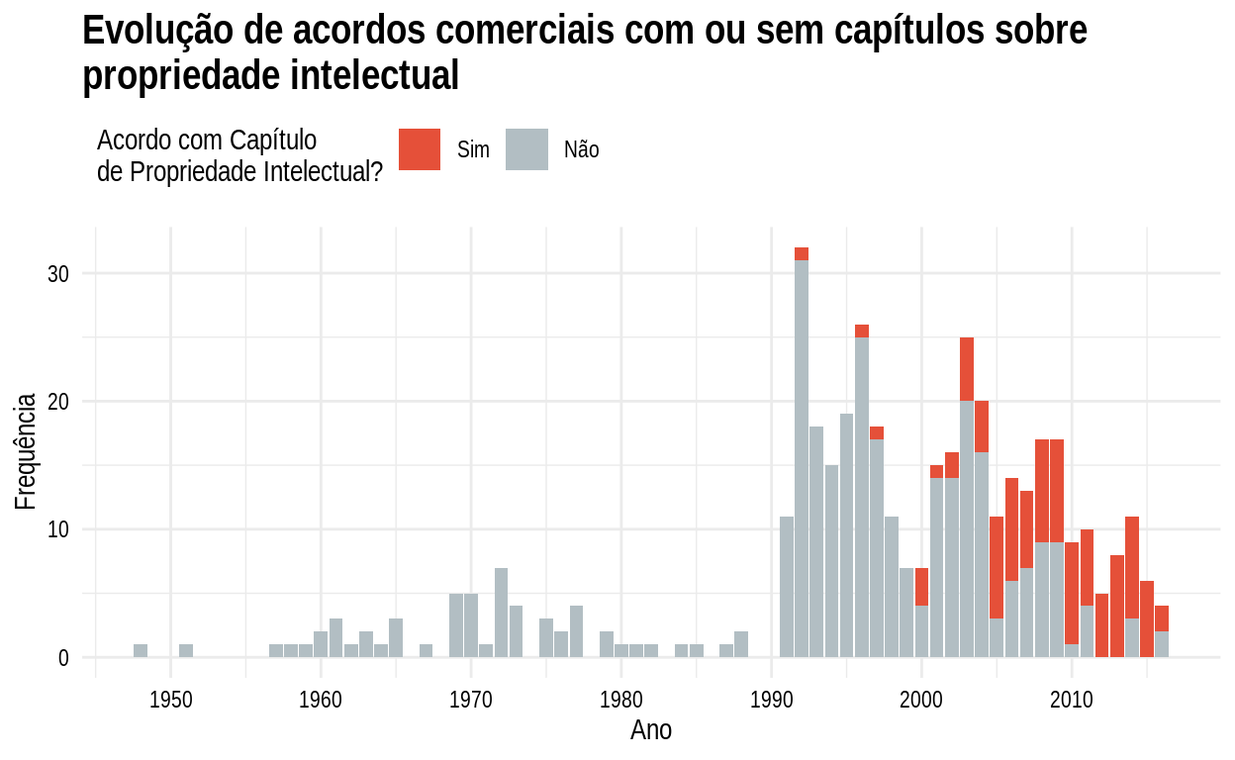
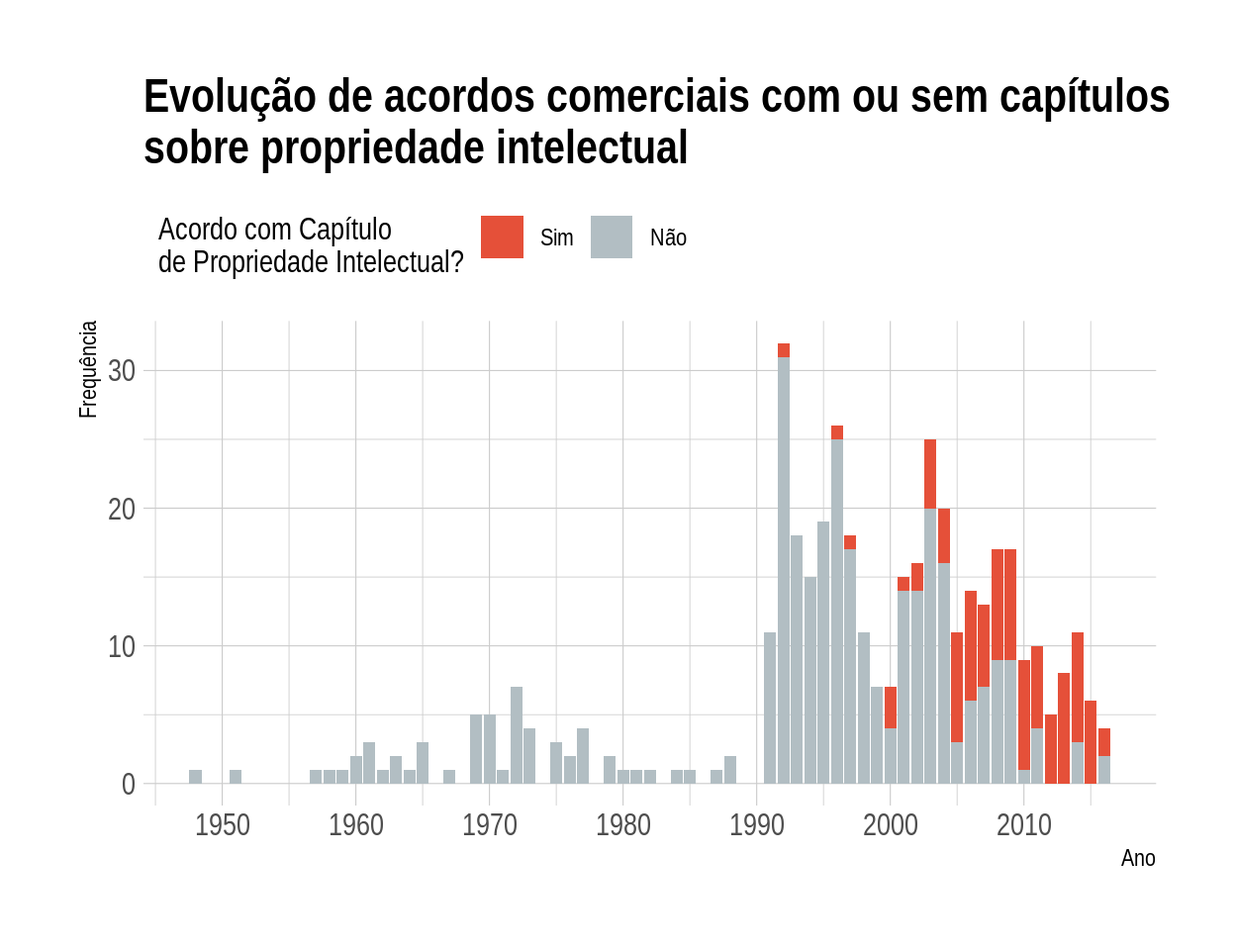
atualizacao post tidytext

diff --git a/_posts/2019-09-19-modelagem-de-tpicos-com-o-r-analisando-os-textos-de-acordos-comerciais/modelagem-de-tpicos-com-o-r-analisando-os-textos-de-acordos-comerciais.html b/_posts/2019-09-19-modelagem-de-tpicos-com-o-r-analisando-os-textos-de-acordos-comerciais/modelagem-de-tpicos-com-o-r-analisando-os-textos-de-acordos-comerciais.html
@@ -19,7 +19,7 @@
  <!--/radix_placeholder_import_source-->
 
   <!--radix_placeholder_meta_tags-->
-  <title>Modelagem de Tópicos com o R: Analisando os Textos de Acordos Comerciais</title>
+  <title>Tidytext e Modelagem de Tópicos com o R: Analisando os Textos de Acordos Comerciais</title>
   
   <meta property="description" itemprop="description" content="Neste post, vamos fazer uma análise de tópicos utilizando os pacotes tidytext e topicmodels. Essa análise consiste em extrair um conjunto de temas (tópicos) de um conjunto de textos. Para isso, utilizamos uma base de textos de acordos comerciais. Veremos que o método utilizado é capaz de identificar uma séria de tópicos relevantes."/>
   
@@ -30,26 +30,26 @@
   <meta name="article:author" content="Paulo Felipe Alencar"/>
   
   <!--  https://developers.facebook.com/docs/sharing/webmasters#markup -->
-  <meta property="og:title" content="Modelagem de Tópicos com o R: Analisando os Textos de Acordos Comerciais"/>
+  <meta property="og:title" content="Tidytext e Modelagem de Tópicos com o R: Analisando os Textos de Acordos Comerciais"/>
   <meta property="og:type" content="article"/>
   <meta property="og:description" content="Neste post, vamos fazer uma análise de tópicos utilizando os pacotes tidytext e topicmodels. Essa análise consiste em extrair um conjunto de temas (tópicos) de um conjunto de textos. Para isso, utilizamos uma base de textos de acordos comerciais. Veremos que o método utilizado é capaz de identificar uma séria de tópicos relevantes."/>
   <meta property="og:locale" content="en_US"/>
   
   <!--  https://dev.twitter.com/cards/types/summary -->
   <meta property="twitter:card" content="summary"/>
-  <meta property="twitter:title" content="Modelagem de Tópicos com o R: Analisando os Textos de Acordos Comerciais"/>
+  <meta property="twitter:title" content="Tidytext e Modelagem de Tópicos com o R: Analisando os Textos de Acordos Comerciais"/>
   <meta property="twitter:description" content="Neste post, vamos fazer uma análise de tópicos utilizando os pacotes tidytext e topicmodels. Essa análise consiste em extrair um conjunto de temas (tópicos) de um conjunto de textos. Para isso, utilizamos uma base de textos de acordos comerciais. Veremos que o método utilizado é capaz de identificar uma séria de tópicos relevantes."/>
   
   <!--/radix_placeholder_meta_tags-->
   <!--radix_placeholder_rmarkdown_metadata-->
   
   <script type="text/json" id="radix-rmarkdown-metadata">
-  {"type":"list","attributes":{"names":{"type":"character","attributes":{},"value":["title","description","author","date","output","draft"]}},"value":[{"type":"character","attributes":{},"value":["Modelagem de Tópicos com o R: Analisando os Textos de Acordos Comerciais"]},{"type":"character","attributes":{},"value":["Neste post, vamos fazer uma análise de tópicos utilizando os pacotes tidytext e topicmodels. Essa análise consiste em extrair um conjunto de temas (tópicos) de um conjunto de textos. Para isso, utilizamos uma base de textos de acordos comerciais. Veremos que o método utilizado é capaz de identificar uma séria de tópicos relevantes.  \n"]},{"type":"list","attributes":{},"value":[{"type":"list","attributes":{"names":{"type":"character","attributes":{},"value":["name"]}},"value":[{"type":"character","attributes":{},"value":["Paulo Felipe Alencar"]}]}]},{"type":"character","attributes":{},"value":["09-19-2019"]},{"type":"list","attributes":{"names":{"type":"character","attributes":{},"value":["distill::distill_article"]}},"value":[{"type":"list","attributes":{"names":{"type":"character","attributes":{},"value":["self_contained"]}},"value":[{"type":"logical","attributes":{},"value":[false]}]}]},{"type":"logical","attributes":{},"value":[true]}]}
+  {"type":"list","attributes":{"names":{"type":"character","attributes":{},"value":["title","description","author","date","output","draft"]}},"value":[{"type":"character","attributes":{},"value":["Tidytext e Modelagem de Tópicos com o R: Analisando os Textos de Acordos Comerciais"]},{"type":"character","attributes":{},"value":["Neste post, vamos fazer uma análise de tópicos utilizando os pacotes tidytext e topicmodels. Essa análise consiste em extrair um conjunto de temas (tópicos) de um conjunto de textos. Para isso, utilizamos uma base de textos de acordos comerciais. Veremos que o método utilizado é capaz de identificar uma séria de tópicos relevantes.  \n"]},{"type":"list","attributes":{},"value":[{"type":"list","attributes":{"names":{"type":"character","attributes":{},"value":["name"]}},"value":[{"type":"character","attributes":{},"value":["Paulo Felipe Alencar"]}]}]},{"type":"character","attributes":{},"value":["09-19-2019"]},{"type":"list","attributes":{"names":{"type":"character","attributes":{},"value":["distill::distill_article"]}},"value":[{"type":"list","attributes":{"names":{"type":"character","attributes":{},"value":["self_contained"]}},"value":[{"type":"logical","attributes":{},"value":[false]}]}]},{"type":"logical","attributes":{},"value":[true]}]}
   </script>
   <!--/radix_placeholder_rmarkdown_metadata-->
   
   <script type="text/json" id="radix-resource-manifest">
-  {"type":"character","attributes":{},"value":["exemplo_xml.png","modelagem-de-tpicos-com-o-r-analisando-os-textos-de-acordos-comerciais_files/bowser-1.9.3/bowser.min.js","modelagem-de-tpicos-com-o-r-analisando-os-textos-de-acordos-comerciais_files/distill-2.2.21/template.v2.js","modelagem-de-tpicos-com-o-r-analisando-os-textos-de-acordos-comerciais_files/figure-html5/unnamed-chunk-14-1.png","modelagem-de-tpicos-com-o-r-analisando-os-textos-de-acordos-comerciais_files/figure-html5/unnamed-chunk-18-1.png","modelagem-de-tpicos-com-o-r-analisando-os-textos-de-acordos-comerciais_files/figure-html5/unnamed-chunk-8-1.png","modelagem-de-tpicos-com-o-r-analisando-os-textos-de-acordos-comerciais_files/jquery-1.11.3/jquery.min.js","modelagem-de-tpicos-com-o-r-analisando-os-textos-de-acordos-comerciais_files/pagedtable-1.1/css/pagedtable.css","modelagem-de-tpicos-com-o-r-analisando-os-textos-de-acordos-comerciais_files/pagedtable-1.1/js/pagedtable.js","modelagem-de-tpicos-com-o-r-analisando-os-textos-de-acordos-comerciais_files/webcomponents-2.0.0/webcomponents.js","xml/pta_1.xml","xml/pta_10.xml","xml/pta_100.xml","xml/pta_101.xml","xml/pta_102.xml","xml/pta_103.xml","xml/pta_104.xml","xml/pta_105.xml","xml/pta_106.xml","xml/pta_107.xml","xml/pta_108.xml","xml/pta_109.xml","xml/pta_11.xml","xml/pta_110.xml","xml/pta_111.xml","xml/pta_112.xml","xml/pta_113.xml","xml/pta_114.xml","xml/pta_115.xml","xml/pta_116.xml","xml/pta_117.xml","xml/pta_118.xml","xml/pta_119.xml","xml/pta_12.xml","xml/pta_120.xml","xml/pta_121.xml","xml/pta_122.xml","xml/pta_123.xml","xml/pta_124.xml","xml/pta_125.xml","xml/pta_126.xml","xml/pta_127.xml","xml/pta_128.xml","xml/pta_129.xml","xml/pta_13.xml","xml/pta_130.xml","xml/pta_131.xml","xml/pta_132.xml","xml/pta_133.xml","xml/pta_134.xml","xml/pta_135.xml","xml/pta_136.xml","xml/pta_137.xml","xml/pta_138.xml","xml/pta_139.xml","xml/pta_14.xml","xml/pta_140.xml","xml/pta_141.xml","xml/pta_142.xml","xml/pta_143.xml","xml/pta_144.xml","xml/pta_145.xml","xml/pta_146.xml","xml/pta_147.xml","xml/pta_148.xml","xml/pta_149.xml","xml/pta_15.xml","xml/pta_150.xml","xml/pta_151.xml","xml/pta_152.xml","xml/pta_153.xml","xml/pta_154.xml","xml/pta_155.xml","xml/pta_156.xml","xml/pta_157.xml","xml/pta_158.xml","xml/pta_159.xml","xml/pta_16.xml","xml/pta_160.xml","xml/pta_161.xml","xml/pta_162.xml","xml/pta_163.xml","xml/pta_164.xml","xml/pta_165.xml","xml/pta_166.xml","xml/pta_167.xml","xml/pta_168.xml","xml/pta_169.xml","xml/pta_17.xml","xml/pta_170.xml","xml/pta_171.xml","xml/pta_172.xml","xml/pta_173.xml","xml/pta_174.xml","xml/pta_175.xml","xml/pta_176.xml","xml/pta_177.xml","xml/pta_178.xml","xml/pta_179.xml","xml/pta_18.xml","xml/pta_180.xml","xml/pta_181.xml","xml/pta_182.xml","xml/pta_183.xml","xml/pta_184.xml","xml/pta_185.xml","xml/pta_186.xml","xml/pta_187.xml","xml/pta_188.xml","xml/pta_189.xml","xml/pta_19.xml","xml/pta_190.xml","xml/pta_191.xml","xml/pta_192.xml","xml/pta_193.xml","xml/pta_194.xml","xml/pta_195.xml","xml/pta_196.xml","xml/pta_197.xml","xml/pta_198.xml","xml/pta_199.xml","xml/pta_2.xml","xml/pta_20.xml","xml/pta_200.xml","xml/pta_201.xml","xml/pta_202.xml","xml/pta_203.xml","xml/pta_204.xml","xml/pta_205.xml","xml/pta_206.xml","xml/pta_207.xml","xml/pta_208.xml","xml/pta_209.xml","xml/pta_21.xml","xml/pta_210.xml","xml/pta_211.xml","xml/pta_212.xml","xml/pta_213.xml","xml/pta_214.xml","xml/pta_215.xml","xml/pta_216.xml","xml/pta_217.xml","xml/pta_218.xml","xml/pta_219.xml","xml/pta_22.xml","xml/pta_220.xml","xml/pta_221.xml","xml/pta_222.xml","xml/pta_223.xml","xml/pta_224.xml","xml/pta_225.xml","xml/pta_226.xml","xml/pta_227.xml","xml/pta_228.xml","xml/pta_229.xml","xml/pta_23.xml","xml/pta_230.xml","xml/pta_231.xml","xml/pta_232.xml","xml/pta_233.xml","xml/pta_234.xml","xml/pta_235.xml","xml/pta_236.xml","xml/pta_237.xml","xml/pta_238.xml","xml/pta_239.xml","xml/pta_24.xml","xml/pta_240.xml","xml/pta_241.xml","xml/pta_242.xml","xml/pta_243.xml","xml/pta_244.xml","xml/pta_245.xml","xml/pta_246.xml","xml/pta_247.xml","xml/pta_248.xml","xml/pta_249.xml","xml/pta_25.xml","xml/pta_250.xml","xml/pta_251.xml","xml/pta_252.xml","xml/pta_253.xml","xml/pta_254.xml","xml/pta_255.xml","xml/pta_256.xml","xml/pta_257.xml","xml/pta_258.xml","xml/pta_259.xml","xml/pta_26.xml","xml/pta_260.xml","xml/pta_261.xml","xml/pta_262.xml","xml/pta_263.xml","xml/pta_264.xml","xml/pta_265.xml","xml/pta_266.xml","xml/pta_267.xml","xml/pta_268.xml","xml/pta_269.xml","xml/pta_27.xml","xml/pta_270.xml","xml/pta_271.xml","xml/pta_272.xml","xml/pta_273.xml","xml/pta_274.xml","xml/pta_275.xml","xml/pta_276.xml","xml/pta_277.xml","xml/pta_278.xml","xml/pta_279.xml","xml/pta_28.xml","xml/pta_280.xml","xml/pta_281.xml","xml/pta_282.xml","xml/pta_283.xml","xml/pta_284.xml","xml/pta_285.xml","xml/pta_286.xml","xml/pta_287.xml","xml/pta_288.xml","xml/pta_289.xml","xml/pta_29.xml","xml/pta_290.xml","xml/pta_291.xml","xml/pta_292.xml","xml/pta_293.xml","xml/pta_294.xml","xml/pta_295.xml","xml/pta_296.xml","xml/pta_297.xml","xml/pta_298.xml","xml/pta_299.xml","xml/pta_3.xml","xml/pta_30.xml","xml/pta_300.xml","xml/pta_301.xml","xml/pta_302.xml","xml/pta_303.xml","xml/pta_304.xml","xml/pta_305.xml","xml/pta_306.xml","xml/pta_307.xml","xml/pta_308.xml","xml/pta_309.xml","xml/pta_31.xml","xml/pta_310.xml","xml/pta_311.xml","xml/pta_312.xml","xml/pta_313.xml","xml/pta_314.xml","xml/pta_315.xml","xml/pta_316.xml","xml/pta_317.xml","xml/pta_318.xml","xml/pta_319.xml","xml/pta_32.xml","xml/pta_320.xml","xml/pta_321.xml","xml/pta_322.xml","xml/pta_323.xml","xml/pta_324.xml","xml/pta_325.xml","xml/pta_326.xml","xml/pta_327.xml","xml/pta_328.xml","xml/pta_329.xml","xml/pta_33.xml","xml/pta_330.xml","xml/pta_331.xml","xml/pta_332.xml","xml/pta_333.xml","xml/pta_334.xml","xml/pta_335.xml","xml/pta_336.xml","xml/pta_337.xml","xml/pta_338.xml","xml/pta_339.xml","xml/pta_34.xml","xml/pta_340.xml","xml/pta_341.xml","xml/pta_342.xml","xml/pta_343.xml","xml/pta_344.xml","xml/pta_345.xml","xml/pta_346.xml","xml/pta_347.xml","xml/pta_348.xml","xml/pta_349.xml","xml/pta_35.xml","xml/pta_350.xml","xml/pta_351.xml","xml/pta_352.xml","xml/pta_353.xml","xml/pta_354.xml","xml/pta_355.xml","xml/pta_356.xml","xml/pta_357.xml","xml/pta_358.xml","xml/pta_359.xml","xml/pta_36.xml","xml/pta_360.xml","xml/pta_361.xml","xml/pta_362.xml","xml/pta_363.xml","xml/pta_364.xml","xml/pta_365.xml","xml/pta_366.xml","xml/pta_367.xml","xml/pta_368.xml","xml/pta_369.xml","xml/pta_37.xml","xml/pta_370.xml","xml/pta_371.xml","xml/pta_372.xml","xml/pta_373.xml","xml/pta_374.xml","xml/pta_375.xml","xml/pta_376.xml","xml/pta_377.xml","xml/pta_378.xml","xml/pta_379.xml","xml/pta_38.xml","xml/pta_380.xml","xml/pta_381.xml","xml/pta_382.xml","xml/pta_383.xml","xml/pta_384.xml","xml/pta_385.xml","xml/pta_386.xml","xml/pta_387.xml","xml/pta_388.xml","xml/pta_389.xml","xml/pta_39.xml","xml/pta_390.xml","xml/pta_391.xml","xml/pta_392.xml","xml/pta_393.xml","xml/pta_394.xml","xml/pta_395.xml","xml/pta_396.xml","xml/pta_397.xml","xml/pta_398.xml","xml/pta_399.xml","xml/pta_4.xml","xml/pta_40.xml","xml/pta_400.xml","xml/pta_401.xml","xml/pta_402.xml","xml/pta_403.xml","xml/pta_404.xml","xml/pta_405.xml","xml/pta_406.xml","xml/pta_407.xml","xml/pta_408.xml","xml/pta_409.xml","xml/pta_41.xml","xml/pta_410.xml","xml/pta_411.xml","xml/pta_412.xml","xml/pta_413.xml","xml/pta_414.xml","xml/pta_415.xml","xml/pta_416.xml","xml/pta_417.xml","xml/pta_418.xml","xml/pta_419.xml","xml/pta_42.xml","xml/pta_420.xml","xml/pta_421.xml","xml/pta_422.xml","xml/pta_423.xml","xml/pta_424.xml","xml/pta_425.xml","xml/pta_426.xml","xml/pta_427.xml","xml/pta_428.xml","xml/pta_429.xml","xml/pta_43.xml","xml/pta_430.xml","xml/pta_431.xml","xml/pta_432.xml","xml/pta_433.xml","xml/pta_434.xml","xml/pta_435.xml","xml/pta_436.xml","xml/pta_437.xml","xml/pta_438.xml","xml/pta_439.xml","xml/pta_44.xml","xml/pta_440.xml","xml/pta_441.xml","xml/pta_442.xml","xml/pta_443.xml","xml/pta_444.xml","xml/pta_445.xml","xml/pta_446.xml","xml/pta_447.xml","xml/pta_448.xml","xml/pta_449.xml","xml/pta_45.xml","xml/pta_450.xml","xml/pta_46.xml","xml/pta_47.xml","xml/pta_48.xml","xml/pta_49.xml","xml/pta_5.xml","xml/pta_50.xml","xml/pta_51.xml","xml/pta_52.xml","xml/pta_53.xml","xml/pta_54.xml","xml/pta_55.xml","xml/pta_56.xml","xml/pta_57.xml","xml/pta_58.xml","xml/pta_59.xml","xml/pta_6.xml","xml/pta_60.xml","xml/pta_61.xml","xml/pta_62.xml","xml/pta_63.xml","xml/pta_64.xml","xml/pta_65.xml","xml/pta_66.xml","xml/pta_67.xml","xml/pta_68.xml","xml/pta_69.xml","xml/pta_7.xml","xml/pta_70.xml","xml/pta_71.xml","xml/pta_72.xml","xml/pta_73.xml","xml/pta_74.xml","xml/pta_75.xml","xml/pta_76.xml","xml/pta_77.xml","xml/pta_78.xml","xml/pta_79.xml","xml/pta_8.xml","xml/pta_80.xml","xml/pta_81.xml","xml/pta_82.xml","xml/pta_83.xml","xml/pta_84.xml","xml/pta_85.xml","xml/pta_86.xml","xml/pta_87.xml","xml/pta_88.xml","xml/pta_89.xml","xml/pta_9.xml","xml/pta_90.xml","xml/pta_91.xml","xml/pta_92.xml","xml/pta_93.xml","xml/pta_94.xml","xml/pta_95.xml","xml/pta_96.xml","xml/pta_97.xml","xml/pta_98.xml","xml/pta_99.xml"]}
+  {"type":"character","attributes":{},"value":["exemplo_xml.png","modelagem-de-tpicos-com-o-r-analisando-os-textos-de-acordos-comerciais_files/bowser-1.9.3/bowser.min.js","modelagem-de-tpicos-com-o-r-analisando-os-textos-de-acordos-comerciais_files/distill-2.2.21/template.v2.js","modelagem-de-tpicos-com-o-r-analisando-os-textos-de-acordos-comerciais_files/figure-html5/unnamed-chunk-14-1.png","modelagem-de-tpicos-com-o-r-analisando-os-textos-de-acordos-comerciais_files/figure-html5/unnamed-chunk-15-1.png","modelagem-de-tpicos-com-o-r-analisando-os-textos-de-acordos-comerciais_files/figure-html5/unnamed-chunk-16-1.png","modelagem-de-tpicos-com-o-r-analisando-os-textos-de-acordos-comerciais_files/figure-html5/unnamed-chunk-18-1.png","modelagem-de-tpicos-com-o-r-analisando-os-textos-de-acordos-comerciais_files/figure-html5/unnamed-chunk-19-1.png","modelagem-de-tpicos-com-o-r-analisando-os-textos-de-acordos-comerciais_files/figure-html5/unnamed-chunk-20-1.png","modelagem-de-tpicos-com-o-r-analisando-os-textos-de-acordos-comerciais_files/figure-html5/unnamed-chunk-8-1.png","modelagem-de-tpicos-com-o-r-analisando-os-textos-de-acordos-comerciais_files/jquery-1.11.3/jquery.min.js","modelagem-de-tpicos-com-o-r-analisando-os-textos-de-acordos-comerciais_files/pagedtable-1.1/css/pagedtable.css","modelagem-de-tpicos-com-o-r-analisando-os-textos-de-acordos-comerciais_files/pagedtable-1.1/js/pagedtable.js","modelagem-de-tpicos-com-o-r-analisando-os-textos-de-acordos-comerciais_files/webcomponents-2.0.0/webcomponents.js","xml/pta_1.xml","xml/pta_10.xml","xml/pta_100.xml","xml/pta_101.xml","xml/pta_102.xml","xml/pta_103.xml","xml/pta_104.xml","xml/pta_105.xml","xml/pta_106.xml","xml/pta_107.xml","xml/pta_108.xml","xml/pta_109.xml","xml/pta_11.xml","xml/pta_110.xml","xml/pta_111.xml","xml/pta_112.xml","xml/pta_113.xml","xml/pta_114.xml","xml/pta_115.xml","xml/pta_116.xml","xml/pta_117.xml","xml/pta_118.xml","xml/pta_119.xml","xml/pta_12.xml","xml/pta_120.xml","xml/pta_121.xml","xml/pta_122.xml","xml/pta_123.xml","xml/pta_124.xml","xml/pta_125.xml","xml/pta_126.xml","xml/pta_127.xml","xml/pta_128.xml","xml/pta_129.xml","xml/pta_13.xml","xml/pta_130.xml","xml/pta_131.xml","xml/pta_132.xml","xml/pta_133.xml","xml/pta_134.xml","xml/pta_135.xml","xml/pta_136.xml","xml/pta_137.xml","xml/pta_138.xml","xml/pta_139.xml","xml/pta_14.xml","xml/pta_140.xml","xml/pta_141.xml","xml/pta_142.xml","xml/pta_143.xml","xml/pta_144.xml","xml/pta_145.xml","xml/pta_146.xml","xml/pta_147.xml","xml/pta_148.xml","xml/pta_149.xml","xml/pta_15.xml","xml/pta_150.xml","xml/pta_151.xml","xml/pta_152.xml","xml/pta_153.xml","xml/pta_154.xml","xml/pta_155.xml","xml/pta_156.xml","xml/pta_157.xml","xml/pta_158.xml","xml/pta_159.xml","xml/pta_16.xml","xml/pta_160.xml","xml/pta_161.xml","xml/pta_162.xml","xml/pta_163.xml","xml/pta_164.xml","xml/pta_165.xml","xml/pta_166.xml","xml/pta_167.xml","xml/pta_168.xml","xml/pta_169.xml","xml/pta_17.xml","xml/pta_170.xml","xml/pta_171.xml","xml/pta_172.xml","xml/pta_173.xml","xml/pta_174.xml","xml/pta_175.xml","xml/pta_176.xml","xml/pta_177.xml","xml/pta_178.xml","xml/pta_179.xml","xml/pta_18.xml","xml/pta_180.xml","xml/pta_181.xml","xml/pta_182.xml","xml/pta_183.xml","xml/pta_184.xml","xml/pta_185.xml","xml/pta_186.xml","xml/pta_187.xml","xml/pta_188.xml","xml/pta_189.xml","xml/pta_19.xml","xml/pta_190.xml","xml/pta_191.xml","xml/pta_192.xml","xml/pta_193.xml","xml/pta_194.xml","xml/pta_195.xml","xml/pta_196.xml","xml/pta_197.xml","xml/pta_198.xml","xml/pta_199.xml","xml/pta_2.xml","xml/pta_20.xml","xml/pta_200.xml","xml/pta_201.xml","xml/pta_202.xml","xml/pta_203.xml","xml/pta_204.xml","xml/pta_205.xml","xml/pta_206.xml","xml/pta_207.xml","xml/pta_208.xml","xml/pta_209.xml","xml/pta_21.xml","xml/pta_210.xml","xml/pta_211.xml","xml/pta_212.xml","xml/pta_213.xml","xml/pta_214.xml","xml/pta_215.xml","xml/pta_216.xml","xml/pta_217.xml","xml/pta_218.xml","xml/pta_219.xml","xml/pta_22.xml","xml/pta_220.xml","xml/pta_221.xml","xml/pta_222.xml","xml/pta_223.xml","xml/pta_224.xml","xml/pta_225.xml","xml/pta_226.xml","xml/pta_227.xml","xml/pta_228.xml","xml/pta_229.xml","xml/pta_23.xml","xml/pta_230.xml","xml/pta_231.xml","xml/pta_232.xml","xml/pta_233.xml","xml/pta_234.xml","xml/pta_235.xml","xml/pta_236.xml","xml/pta_237.xml","xml/pta_238.xml","xml/pta_239.xml","xml/pta_24.xml","xml/pta_240.xml","xml/pta_241.xml","xml/pta_242.xml","xml/pta_243.xml","xml/pta_244.xml","xml/pta_245.xml","xml/pta_246.xml","xml/pta_247.xml","xml/pta_248.xml","xml/pta_249.xml","xml/pta_25.xml","xml/pta_250.xml","xml/pta_251.xml","xml/pta_252.xml","xml/pta_253.xml","xml/pta_254.xml","xml/pta_255.xml","xml/pta_256.xml","xml/pta_257.xml","xml/pta_258.xml","xml/pta_259.xml","xml/pta_26.xml","xml/pta_260.xml","xml/pta_261.xml","xml/pta_262.xml","xml/pta_263.xml","xml/pta_264.xml","xml/pta_265.xml","xml/pta_266.xml","xml/pta_267.xml","xml/pta_268.xml","xml/pta_269.xml","xml/pta_27.xml","xml/pta_270.xml","xml/pta_271.xml","xml/pta_272.xml","xml/pta_273.xml","xml/pta_274.xml","xml/pta_275.xml","xml/pta_276.xml","xml/pta_277.xml","xml/pta_278.xml","xml/pta_279.xml","xml/pta_28.xml","xml/pta_280.xml","xml/pta_281.xml","xml/pta_282.xml","xml/pta_283.xml","xml/pta_284.xml","xml/pta_285.xml","xml/pta_286.xml","xml/pta_287.xml","xml/pta_288.xml","xml/pta_289.xml","xml/pta_29.xml","xml/pta_290.xml","xml/pta_291.xml","xml/pta_292.xml","xml/pta_293.xml","xml/pta_294.xml","xml/pta_295.xml","xml/pta_296.xml","xml/pta_297.xml","xml/pta_298.xml","xml/pta_299.xml","xml/pta_3.xml","xml/pta_30.xml","xml/pta_300.xml","xml/pta_301.xml","xml/pta_302.xml","xml/pta_303.xml","xml/pta_304.xml","xml/pta_305.xml","xml/pta_306.xml","xml/pta_307.xml","xml/pta_308.xml","xml/pta_309.xml","xml/pta_31.xml","xml/pta_310.xml","xml/pta_311.xml","xml/pta_312.xml","xml/pta_313.xml","xml/pta_314.xml","xml/pta_315.xml","xml/pta_316.xml","xml/pta_317.xml","xml/pta_318.xml","xml/pta_319.xml","xml/pta_32.xml","xml/pta_320.xml","xml/pta_321.xml","xml/pta_322.xml","xml/pta_323.xml","xml/pta_324.xml","xml/pta_325.xml","xml/pta_326.xml","xml/pta_327.xml","xml/pta_328.xml","xml/pta_329.xml","xml/pta_33.xml","xml/pta_330.xml","xml/pta_331.xml","xml/pta_332.xml","xml/pta_333.xml","xml/pta_334.xml","xml/pta_335.xml","xml/pta_336.xml","xml/pta_337.xml","xml/pta_338.xml","xml/pta_339.xml","xml/pta_34.xml","xml/pta_340.xml","xml/pta_341.xml","xml/pta_342.xml","xml/pta_343.xml","xml/pta_344.xml","xml/pta_345.xml","xml/pta_346.xml","xml/pta_347.xml","xml/pta_348.xml","xml/pta_349.xml","xml/pta_35.xml","xml/pta_350.xml","xml/pta_351.xml","xml/pta_352.xml","xml/pta_353.xml","xml/pta_354.xml","xml/pta_355.xml","xml/pta_356.xml","xml/pta_357.xml","xml/pta_358.xml","xml/pta_359.xml","xml/pta_36.xml","xml/pta_360.xml","xml/pta_361.xml","xml/pta_362.xml","xml/pta_363.xml","xml/pta_364.xml","xml/pta_365.xml","xml/pta_366.xml","xml/pta_367.xml","xml/pta_368.xml","xml/pta_369.xml","xml/pta_37.xml","xml/pta_370.xml","xml/pta_371.xml","xml/pta_372.xml","xml/pta_373.xml","xml/pta_374.xml","xml/pta_375.xml","xml/pta_376.xml","xml/pta_377.xml","xml/pta_378.xml","xml/pta_379.xml","xml/pta_38.xml","xml/pta_380.xml","xml/pta_381.xml","xml/pta_382.xml","xml/pta_383.xml","xml/pta_384.xml","xml/pta_385.xml","xml/pta_386.xml","xml/pta_387.xml","xml/pta_388.xml","xml/pta_389.xml","xml/pta_39.xml","xml/pta_390.xml","xml/pta_391.xml","xml/pta_392.xml","xml/pta_393.xml","xml/pta_394.xml","xml/pta_395.xml","xml/pta_396.xml","xml/pta_397.xml","xml/pta_398.xml","xml/pta_399.xml","xml/pta_4.xml","xml/pta_40.xml","xml/pta_400.xml","xml/pta_401.xml","xml/pta_402.xml","xml/pta_403.xml","xml/pta_404.xml","xml/pta_405.xml","xml/pta_406.xml","xml/pta_407.xml","xml/pta_408.xml","xml/pta_409.xml","xml/pta_41.xml","xml/pta_410.xml","xml/pta_411.xml","xml/pta_412.xml","xml/pta_413.xml","xml/pta_414.xml","xml/pta_415.xml","xml/pta_416.xml","xml/pta_417.xml","xml/pta_418.xml","xml/pta_419.xml","xml/pta_42.xml","xml/pta_420.xml","xml/pta_421.xml","xml/pta_422.xml","xml/pta_423.xml","xml/pta_424.xml","xml/pta_425.xml","xml/pta_426.xml","xml/pta_427.xml","xml/pta_428.xml","xml/pta_429.xml","xml/pta_43.xml","xml/pta_430.xml","xml/pta_431.xml","xml/pta_432.xml","xml/pta_433.xml","xml/pta_434.xml","xml/pta_435.xml","xml/pta_436.xml","xml/pta_437.xml","xml/pta_438.xml","xml/pta_439.xml","xml/pta_44.xml","xml/pta_440.xml","xml/pta_441.xml","xml/pta_442.xml","xml/pta_443.xml","xml/pta_444.xml","xml/pta_445.xml","xml/pta_446.xml","xml/pta_447.xml","xml/pta_448.xml","xml/pta_449.xml","xml/pta_45.xml","xml/pta_450.xml","xml/pta_46.xml","xml/pta_47.xml","xml/pta_48.xml","xml/pta_49.xml","xml/pta_5.xml","xml/pta_50.xml","xml/pta_51.xml","xml/pta_52.xml","xml/pta_53.xml","xml/pta_54.xml","xml/pta_55.xml","xml/pta_56.xml","xml/pta_57.xml","xml/pta_58.xml","xml/pta_59.xml","xml/pta_6.xml","xml/pta_60.xml","xml/pta_61.xml","xml/pta_62.xml","xml/pta_63.xml","xml/pta_64.xml","xml/pta_65.xml","xml/pta_66.xml","xml/pta_67.xml","xml/pta_68.xml","xml/pta_69.xml","xml/pta_7.xml","xml/pta_70.xml","xml/pta_71.xml","xml/pta_72.xml","xml/pta_73.xml","xml/pta_74.xml","xml/pta_75.xml","xml/pta_76.xml","xml/pta_77.xml","xml/pta_78.xml","xml/pta_79.xml","xml/pta_8.xml","xml/pta_80.xml","xml/pta_81.xml","xml/pta_82.xml","xml/pta_83.xml","xml/pta_84.xml","xml/pta_85.xml","xml/pta_86.xml","xml/pta_87.xml","xml/pta_88.xml","xml/pta_89.xml","xml/pta_9.xml","xml/pta_90.xml","xml/pta_91.xml","xml/pta_92.xml","xml/pta_93.xml","xml/pta_94.xml","xml/pta_95.xml","xml/pta_96.xml","xml/pta_97.xml","xml/pta_98.xml","xml/pta_99.xml"]}
   </script>
   <!--radix_placeholder_navigation_in_header-->
   <!--/radix_placeholder_navigation_in_header-->
@@ -944,7 +944,7 @@
 <!--radix_placeholder_front_matter-->
 
 <script id="distill-front-matter" type="text/json">
-{"title":"Modelagem de Tópicos com o R: Analisando os Textos de Acordos Comerciais","description":"Neste post, vamos fazer uma análise de tópicos utilizando os pacotes tidytext e topicmodels. Essa análise consiste em extrair um conjunto de temas (tópicos) de um conjunto de textos. Para isso, utilizamos uma base de textos de acordos comerciais. Veremos que o método utilizado é capaz de identificar uma séria de tópicos relevantes.","authors":[{"author":"Paulo Felipe Alencar","authorURL":"#","affiliation":"&nbsp;","affiliationURL":"#"}],"publishedDate":"2019-09-19T00:00:00.000-03:00","citationText":"Alencar, 2019"}
+{"title":"Tidytext e Modelagem de Tópicos com o R: Analisando os Textos de Acordos Comerciais","description":"Neste post, vamos fazer uma análise de tópicos utilizando os pacotes tidytext e topicmodels. Essa análise consiste em extrair um conjunto de temas (tópicos) de um conjunto de textos. Para isso, utilizamos uma base de textos de acordos comerciais. Veremos que o método utilizado é capaz de identificar uma séria de tópicos relevantes.","authors":[{"author":"Paulo Felipe Alencar","authorURL":"#","affiliation":"&nbsp;","affiliationURL":"#"}],"publishedDate":"2019-09-19T00:00:00.000-03:00","citationText":"Alencar, 2019"}
 </script>
 
 <!--/radix_placeholder_front_matter-->
@@ -954,7 +954,7 @@
 <!--/radix_placeholder_site_before_body-->
 
 <div class="d-title">
-<h1>Modelagem de Tópicos com o R: Analisando os Textos de Acordos Comerciais</h1>
+<h1>Tidytext e Modelagem de Tópicos com o R: Analisando os Textos de Acordos Comerciais</h1>
 <p>Neste post, vamos fazer uma análise de tópicos utilizando os pacotes tidytext e topicmodels. Essa análise consiste em extrair um conjunto de temas (tópicos) de um conjunto de textos. Para isso, utilizamos uma base de textos de acordos comerciais. Veremos que o método utilizado é capaz de identificar uma séria de tópicos relevantes.<br /></p>
 </div>
 
@@ -967,30 +967,29 @@
 
 <div class="d-article">
 <h1 id="introducao">Introdução</h1>
-<p>Os acordos comerciais celebrados ao redor do mundo e que são notificados à Organização Mundial de Comércio (OMC) possuem um texto que descreve os diversos aspectos que foram negociados e acertados entre os diferentes parceiros. Recentemente, uma iniciativa conjunta da UNCTAD e de alguns parceiros desenvolveu uma base anotada com o texto de, aproximadamente, 450 acordos comerciais.</p>
-<p>Vamos utilizar essa base para trabalhar com processamente de dados textuais no R. Utilizaremos o pacote <code>tidytext</code> para trabalhar com os textos em um formato <em>tidy</em>, ou seja, com dados em formato tabular (em <em>data.frames</em>).</p>
+<p>É bastante comum que uma análise de dados envolvam textos. Neste post, vamos trabalhar textos no formato <em>tidy</em> utilizando o pacote <code>tidytext</code>. Após a manipulação de dados, vamos estimar um modelo de tópicos utilizando o pacote <code>topicmodels</code>. Esta abordagem permite encontrar diversos “temas” dentro de um conjunto de textos. Este post segue o que está descrito no livro <a href="https://www.tidytextmining.com/">Tidy Text Mining with R</a> que foi escrito pelos mesmos autores do pacote <code>tidytext</code>.</p>
+<p>Como aplicação, utilizaremos textos de acordos comerciais da base <a href="http://mappinginvestmenttreaties.com/rta/"><em>Text of Trade Agreements - TOTA</em></a> desenvolvida pela UNCTAD e que abrange 451 acordos comerciais. Os acordos comerciais celebrados ao redor do mundo e que são notificados à Organização Mundial de Comércio (OMC) possuem um texto que descreve os diversos aspectos que foram negociados e acertados entre os diferentes parceiros. Os acordos comerciais cobrem desde questões tarifárias a questões de propriedade intelectual.</p>
+<p>Vamos começar a nossa análise!</p>
 <h1 id="pacotes">Pacotes</h1>
+<p>Aqui estão listados os pacotes que utilizamos neste post.</p>
 <div class="layout-chunk" data-layout="l-body">
 <pre class="r"><code>
 library(tidyverse)
 library(tidytext)
 library(xml2)
 library(topicmodels)
-library(lubridate)</code></pre>
+library(lubridate)
+library(hrbrthemes)</code></pre>
 </div>
+<p>A função <code>theme_set()</code> define o tema para todos os gráficos do ggplot2.</p>
 <div class="layout-chunk" data-layout="l-body">
 <pre class="r"><code>
-extrafont::loadfonts(quiet = TRUE)
 theme_set(
-  theme_minimal() + 
-    theme(
-      plot.title = element_text(face = &quot;bold&quot;, size = 16),
-      text = element_text(family = &quot;Arial Narrow&quot;),
-      axis.text = element_text(color = &quot;#000000&quot;),
-      strip.text = element_text(face = &quot;bold&quot;, color = &quot;#000000&quot;),
+ theme_ipsum() +
+   theme(
       legend.position = &quot;top&quot;,
       legend.justification = &quot;left&quot;
-    )
+   )
 )</code></pre>
 </div>
 <h1 id="dados">Dados</h1>
@@ -1105,14 +1104,35 @@ pta_df %&gt;%
   scale_x_continuous(breaks = seq(1950, 2010, 10)) +
   labs(
     title = &quot;Número de Acordos Comerciais Assinados por Ano&quot;,
-    subtitle = &quot;Os acordos comerciais se proliferaram a partir da década de 90. A Organinazação Mundial de Comércio (OMC)\nfoi criada em 1995.&quot;,
+    subtitle = &quot;Os acordos comerciais se proliferaram a partir da década de 90.
+A Organização Mundial de Comércio (OMC)foi criada em 1995.&quot;,
     x = &quot;Ano&quot;,
     y = &quot;Número de Acordos&quot;
   )</code></pre>
 <p><img src="modelagem-de-tpicos-com-o-r-analisando-os-textos-de-acordos-comerciais_files/figure-html5/unnamed-chunk-8-1.png" width="624" /></p>
 </div>
-<h1 id="convertendo-os-textos-para-o-formato-tidy">Convertendo os textos para o formato tidy</h1>
-<p>O primeiro passo para a nossa análise dos textos do acordo é converter os dados para o formato <em>tidy</em>. Neste forma, cada linha representará uma palavra de cada documento. Aqui, definimos “documento” como um capítulo de um acordo específico (coluna <code>id_capitulo</code>).</p>
+<h1 id="convertendo-os-textos-para-o-formato-tidy-text">Convertendo os textos para o formato tidy text</h1>
+<p>Para os autores do pacote <code>tidytext</code>, o formato de dados <code>tidy</code> para textos seria aquele de uma tabela com uma linha por <em>token</em>. Aqui, <em>token</em> seria uma unidade de texto relevante (caractere, palavra, parágrafo etc.). Neste post, a nossa unidade será o de palavras. Assim, teremos um data.frame com uma linha para cada palavra de cada documento. Aqui, definimos “documento” como um capítulo de um acordo específico (coluna <code>id_capitulo</code>).</p>
+<p>Adicional, removemos as chamadas <em>stop words</em> com um <code>anti_join()</code>. Veja abaixo o que seria esse objeto <code>stop_words</code>:</p>
+<div class="layout-chunk" data-layout="l-body">
+<pre class="r"><code>
+head(stop_words, 10)</code></pre>
+<pre><code>
+# A tibble: 10 x 2
+   word        lexicon
+   &lt;chr&gt;       &lt;chr&gt;  
+ 1 a           SMART  
+ 2 a&#39;s         SMART  
+ 3 able        SMART  
+ 4 about       SMART  
+ 5 above       SMART  
+ 6 according   SMART  
+ 7 accordingly SMART  
+ 8 across      SMART  
+ 9 actually    SMART  
+10 after       SMART  </code></pre>
+</div>
+<p>Além das <em>stop words</em>, as palavrar que possuem números também são removidas.</p>
 <div class="layout-chunk" data-layout="l-body">
 <pre class="r"><code>
 textos_df &lt;- pta_df %&gt;% 
@@ -1137,6 +1157,8 @@ head(textos_df)</code></pre>
 5 1_1         hereinafter
 6 1_1         referred   </code></pre>
 </div>
+<p>A função <code>unnest_tokens()</code> irá quebrar a variável <code>texto</code> por palavras. Ao todo, temos 2567029 palavras. Veja que cada linha agora é uma palavra.</p>
+<p>Abaixo é criado um data.frame com as 2000 palavras mais frequentes. As palavras <em>party</em> e <em>parties</em> são bastante frequentes, mas não trazem nenhuma informação relevante. Dessa forma, elas são removidas da lista de palavras mais frequentes..</p>
 <div class="layout-chunk" data-layout="l-body">
 <pre class="r"><code>
 palavras_frequentes &lt;- textos_df %&gt;% 
@@ -1145,9 +1167,11 @@ palavras_frequentes &lt;- textos_df %&gt;%
   top_n(2000) %&gt;% 
   pull(word)</code></pre>
 </div>
-<p>A função <code>unnest_tokens()</code> irá quebrar a variável <code>texto</code> por palavras. Ao todo, temos 2567029 palavras. Veja que cada linha agora é uma palavra.</p>
 <h1 id="modelando-topicos">Modelando tópicos</h1>
-<p>EXPLICAR O MÉTODO.</p>
+<p>Com os nossos dados quase prontos, vamos falar sobre o método que será utilizado: Latent Dirichlet Allocation (LDA). O nosso objetivo é encontrar os tópicos que existiriam em uma coleção de documentos. Neste modelo, define-se um quantidade de tópicos <span class="math inline">\(k\)</span> e o algoritmo irá estimar a distribuição de termos (<span class="math inline">\(\beta\)</span>) de cada tópico. Esta distribuição traz a probabilidade de ocorrência de uma palavra em um determinado tópico.</p>
+<p>Além disso, cada documento é uma mistura de tópicos. Por exemplo, supondo 2 tópicos, o documento 1 é 60% do tópico X e 40% do tópico Y. O que o LDA faz é estimar essas distribuições a partir da frequência de palavras dentro de cada documento.</p>
+<p>Para maiores detalhes, ver o <a href="https://www.tidytextmining.com/topicmodeling.html">capítulo 6</a> e o vignette do <code>topicmodels</code> (<code>vignette(&quot;topicmodels&quot;)</code>).</p>
+<p>Para estimar o modelo, é preciso uma matriz de termos por documento. Cara linha dessa matriz é um documento e cada coluna é um termo (uma palavra). O valor em cada posição é a frequência de cada termo em cada documento. A função <code>cast_dtm()</code> converte o data.frame para uma matriz de termos por documento.</p>
 <div class="layout-chunk" data-layout="l-body">
 <pre class="r"><code>
 textos_dtm &lt;- textos_df %&gt;% 
@@ -1156,20 +1180,31 @@ textos_dtm &lt;- textos_df %&gt;%
   summarise(n = n()) %&gt;% 
   cast_dtm(document = id_capitulo, term = word, value = n)</code></pre>
 </div>
+<p>A função abaixo estima o modelo. Além dos dados, definimos arbitrariamente o número de tópicos em 16 e fixamos a <em>seed</em> para possibilitar a reprodutibilidade dos resultados.</p>
+<div class="layout-chunk" data-layout="l-body">
+
+</div>
 <div class="layout-chunk" data-layout="l-body">
 <pre class="r"><code>
-#acordos_lda &lt;- LDA(textos_dtm, k = 16, control = list(seed = 9876))
-#save(acordos_lda, file = &#39;acordos_lda.RData&#39;)
-load(&#39;acordos_lda.RData&#39;)</code></pre>
+acordos_lda &lt;- LDA(textos_dtm, k = 16, control = list(seed = 9876))</code></pre>
 </div>
 <p>Com o modelo estimado, pode-se extrair o <span class="math inline">\(\beta\)</span>, que é a probabilidade estimada de cada termo dentro de um determinado tópico.</p>
 <div class="layout-chunk" data-layout="l-body">
 <pre class="r"><code>
 termos_acordos &lt;- tidy(acordos_lda, type = &quot;beta&quot;)</code></pre>
 </div>
-<p>Dessa forma, podemos extrair os termos com os maiores <span class="math inline">\(\beta\)</span> de cada tópico. Assim, é possível checar se essas palavras indicam sobre qual assunto cada tópico está relacionado. Para quem trabalha no dia a dia com acordos comerciais, deve ser fácil indicar os tópicos. Mesmo não sendo especialista, é possível facilmente identificar que, por exemplo, o tópico 1 refere-se a compras públicas. Já o tópico 7 indica que seja algo relacionado ao tema de propriedade intelectual.</p>
+<p>Dessa forma, podemos extrair os termos com as maiores probabilidades dentro de cada tópico. Assim, é possível checar se essas palavras indicam sobre qual assunto cada tópico está relacionado. Para quem trabalha no dia a dia com acordos comerciais, deve ser fácil indicar os tópicos. Mesmo não sendo especialista, é possível facilmente identificar que, por exemplo, o tópico 1 refere-se a compras públicas. Já o tópico 7 indica que seja algo relacionado ao tema de propriedade intelectual.</p>
 <div class="layout-chunk" data-layout="l-page">
 <pre class="r"><code>
+#https://stackoverflow.com/questions/28436855/change-the-number-of-breaks-using-facet-grid-in-ggplot2
+equal_breaks &lt;- function(n = 3, s = 0.05, ...){
+  function(x){
+    # rescaling
+    d &lt;- s * diff(range(x)) / (1+2*s)
+    seq(min(x)+d, max(x)-d, length=n)
+  }
+}
+
 termos_acordos %&gt;% 
   group_by(topic) %&gt;% 
   top_n(10, beta) %&gt;% 
@@ -1181,7 +1216,7 @@ termos_acordos %&gt;%
     topic = factor(topic, levels = paste0(&quot;Tópico: &quot;, 1:16))
   ) %&gt;%
   ggplot(aes(y = term, x = beta, color = topic)) +
-  geom_point(size = 3, show.legend = FALSE) +
+  geom_point(size = 2, show.legend = FALSE) +
   geom_segment(
     mapping = aes(yend = term),
     xend = 0,
@@ -1190,16 +1225,23 @@ termos_acordos %&gt;%
   ) +
   facet_wrap(~ topic, scales = &quot;free&quot;) +
   scale_y_reordered() +
+  scale_x_continuous(
+    breaks = equal_breaks(n = 3, s = 0.01),
+    labels = scales::number_format(big.mark = &quot;.&quot;, decimal.mark = &quot;,&quot;, accuracy = 0.01)
+  ) +
   labs(
-    title = &quot;Principais termos de cada tópico extraído dos textos dos acordos comerciais&quot;,
-    subtitle = &quot;O beta é a probabilidade estimada de um determinado termo ter sido gerado por um tópico específico.&quot;,
-    x = &quot;Termo&quot;
+    title = &quot;Principais termos de cada tópico extraído dos textos dos\nacordos comerciais&quot;,
+    subtitle = &quot;O beta é a probabilidade estimada de um determinado termo ter sido gerado em cada tópico específico.&quot;,
+    y = &quot;Termo&quot;
   ) +
   theme(
     panel.grid.major.y = element_blank(),
     panel.grid.minor.x = element_blank()
+  ) +
+  theme_ipsum(
+    axis_text_size = 8
   )</code></pre>
-<p><img src="modelagem-de-tpicos-com-o-r-analisando-os-textos-de-acordos-comerciais_files/figure-html5/unnamed-chunk-14-1.png" width="768" /></p>
+<p><img src="modelagem-de-tpicos-com-o-r-analisando-os-textos-de-acordos-comerciais_files/figure-html5/unnamed-chunk-16-1.png" width="768" /></p>
 </div>
 <p>Também é possível extrair a proporção de cada tópico em cada documento. No nosso caso, um documento refere-se a um capítulo de um acordo. Essa base tem a grande vantagem que a maioria dos capítulos já estão rotulados. A única de dificuldade é que existem mais de 900 rótulos diferentes. Muitas vezes, trata-se do mesmo tema, mas com uma escrita diferente. De toda forma, podemos verificar para quais rótulos os nossos tópicos estão associados.</p>
 <p>Primeiro vamos extrair a proporção de cada tópico em cada documento:</p>
@@ -1247,7 +1289,7 @@ capitulo_topico %&gt;%
 15    15 Telecommunications Services                      
 16    16 Dispute Settlement                               </code></pre>
 </div>
-<p>Para finalizar a nossa análise, vamos verificar a dinâmica da frequência de acordos que incluiram ou não um capítulo sobre Proprieda Intelectual. Para isso, vamos considerar que um acordo possui um capítulo sobre Propriedade Intelectual se existe algum capítulo com uma proporção desse tópico superior a 50%. Verificamos que esse tema ficou mais relevante após 2005, período que se verifica uma maior frequência de acordos que abrangem esse tema.</p>
+<p>Para finalizar a nossa análise, vamos verificar a dinâmica da frequência de acordos que incluíram ou não um capítulo sobre Propriedade Intelectual. Para isso, vamos considerar que um acordo possui um capítulo sobre Propriedade Intelectual se existe algum capítulo com uma proporção desse tópico superior a 50%. Verificamos que esse tema ficou mais relevante após 2005, período que se verifica uma maior frequência de acordos que abrangem esse tema.</p>
 <div class="layout-chunk" data-layout="l-body">
 <pre class="r"><code>
 capitulo_topico %&gt;% 
@@ -1263,14 +1305,17 @@ capitulo_topico %&gt;%
   scale_fill_manual(values = c(&quot;#e55039&quot;, &quot;#b2bec3&quot;)) +
   scale_x_continuous(breaks = seq(1950, 2020, 10)) +
   labs(
-    title = &quot;Evolução de acordos comerciais com ou sem capítulos sobre
-propriedade intelectual&quot;,
+    title = &quot;Evolução de acordos comerciais com ou sem capítulos
+sobre propriedade intelectual&quot;,
     x = &quot;Ano&quot;,
     y = &quot;Frequência&quot;,
     fill = &quot;Acordo com Capítulo\nde Propriedade Intelectual?&quot;
   )</code></pre>
-<p><img src="modelagem-de-tpicos-com-o-r-analisando-os-textos-de-acordos-comerciais_files/figure-html5/unnamed-chunk-18-1.png" width="624" /></p>
+<p><img src="modelagem-de-tpicos-com-o-r-analisando-os-textos-de-acordos-comerciais_files/figure-html5/unnamed-chunk-20-1.png" width="624" /></p>
 </div>
+<h2 id="consideracoes-finais">Considerações Finais</h2>
+<p>Neste post, trabalhamos com dados textuais no R e mostramos como é possível estimar um modelo de tópicos. Usamos uma base de dados de textos de acordos comerciais, mas a aplicação pode ser facilmente transferida para outros contextos.</p>
+<p>Existem diversas outras aplicações relacionadas a Processamento de Linguagem Natural que poderão ser apresentadas em outros posts. Hoje, ficamos por aqui!</p>
 <!--radix_placeholder_article_footer-->
 <!--/radix_placeholder_article_footer-->
 </div>
